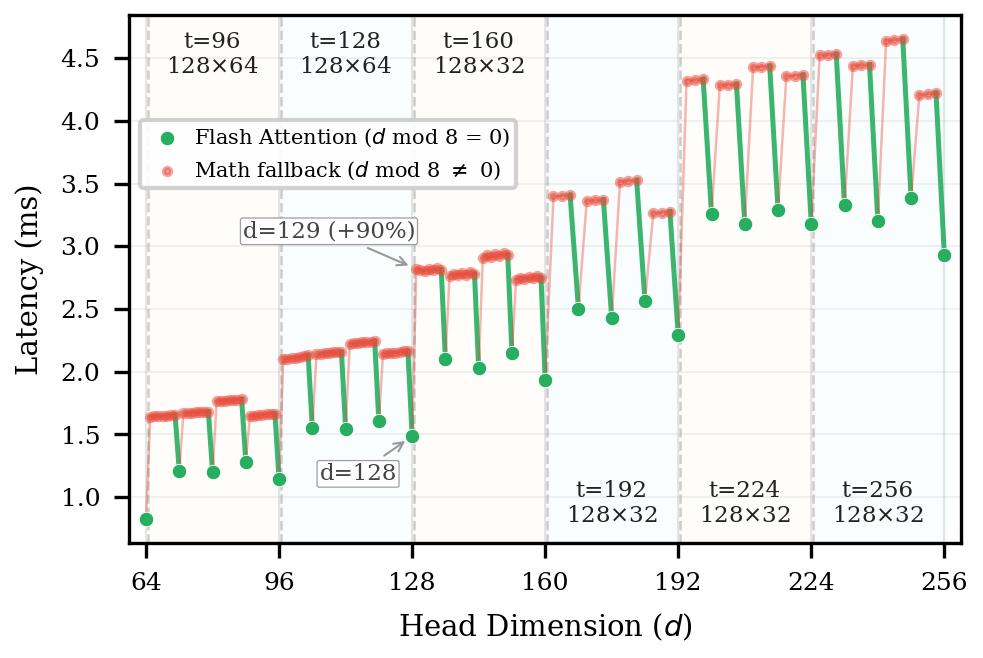
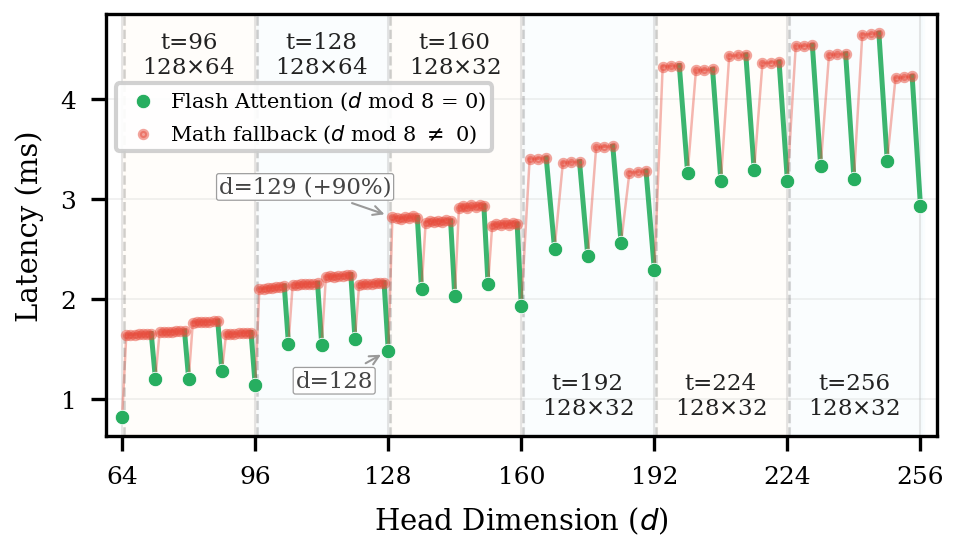
Adjust figure size

diff --git a/scripts/create_paper_figures.py b/scripts/create_paper_figures.py
@@ -208,7 +208,7 @@ def fig2_sdpa_latency():
     dims = np.array(sorted(all_measurements.keys()))
     latencies = np.array([all_measurements[d] for d in dims])
 
-    fig, ax = plt.subplots(figsize=(3.3, 2.2))
+    fig, ax = plt.subplots(figsize=(3.3, 1.85))
 
     # Draw segments between consecutive points, colored by backend
     for i in range(len(dims) - 1):
@@ -256,12 +256,12 @@ def fig2_sdpa_latency():
         mid = (t0 + t1) / 2
         br_bc = tmpl_bxbc.get(t1, '?')
         label = f't={t1}\n{br_bc}'
-        # First 3 tiers at top, rest at bottom (avoid overlap with data)
+        # First 3 tiers at top, rest at bottom (avoid overlap with data/legend)
         if t1 <= 160:
-            ax.text(mid, 0.97, label, transform=ax.get_xaxis_transform(),
+            ax.text(mid, 0.96, label, transform=ax.get_xaxis_transform(),
                     fontsize=5.5, ha='center', va='top', color=_tmpl_clr)
         else:
-            ax.text(mid, 0.03, label, transform=ax.get_xaxis_transform(),
+            ax.text(mid, 0.04, label, transform=ax.get_xaxis_transform(),
                     fontsize=5.5, ha='center', va='bottom', color=_tmpl_clr)
     # d=64 uses template=64 (128×128) — just one point, note in caption
 
@@ -289,10 +289,10 @@ def fig2_sdpa_latency():
     ax.set_xticks(templates)
     ax.legend(fontsize=5, loc='upper left', framealpha=0.9,
               handletextpad=0.3, borderpad=0.3,
-              bbox_to_anchor=(0.0, 0.82))
+              bbox_to_anchor=(0.0, 0.86))
     ax.grid(True, axis='y', alpha=0.2, linewidth=0.4)
 
-    fig.subplots_adjust(left=0.13, right=0.97, top=0.95, bottom=0.15)
+    fig.subplots_adjust(left=0.13, right=0.97, top=0.92, bottom=0.16)
     fig.savefig(OUTPUT_DIR / 'fig2_sdpa_latency.pdf')
     fig.savefig(OUTPUT_DIR / 'fig2_sdpa_latency.png')
     plt.close()
@@ -985,7 +985,7 @@ def fig_prefill_scaling(results_path='results/llmpruner_llama3_v2/results.json')
     x = np.arange(len(seq_lens))
     width = 0.25
 
-    fig, ax = plt.subplots(figsize=(3.3, 2.2))
+    fig, ax = plt.subplots(figsize=(3.3, 1.6))
 
     bars_base = ax.bar(x - width, baseline_vals, width, label='Baseline',
                        color=COLORS['neutral'], alpha=0.7, edgecolor='white', linewidth=0.5)

diff --git a/Latex/figures/fig_gac_framework.tex b/Latex/figures/fig_gac_framework.tex
@@ -21,29 +21,26 @@
   % Input
   \node[iobox, fill=gray!10, draw=gray!50] (input) at (0, 0) {
     \textbf{Input}\\[1pt]
-    {\footnotesize LLM + budget}\\[-1pt]
-    {\footnotesize + compressor}
+    {\footnotesize LLM + Budget}\\[-1pt]
+    {\footnotesize + Compressor}
   };
 
   % Step 1: Operator Analysis
   \node[phase, cblue, text=white] (analysis) at (3.8, 0) {
-    \textbf{Op.\ Analysis}\\[1pt]
-    {\footnotesize SDPA / GEMM}\\[-1pt]
-    {\footnotesize constraints (\S3)}
+    \textbf{Operator}\\[1pt]
+    \textbf{Analysis}
   };
 
   % Step 2: Dimension Sweep
   \node[phase, corange, text=white] (sweep) at (7.6, 0) {
-    \textbf{Dim Sweep}\\[1pt]
-    {\footnotesize Profile near $r_i^*$}\\[-1pt]
-    {\footnotesize $\to$ candidates $C_i$}
+    \textbf{Dimensional}\\[1pt]
+    \textbf{Sweep}
   };
 
   % Step 3: Knapsack DP
   \node[phase, fill=violet!70!blue, text=white] (dp) at (11.4, 0) {
-    \textbf{Knapsack DP}\\[1pt]
-    {\footnotesize $\max \sum f_i(r_i {-} r_i^*)$}\\[-1pt]
-    {\footnotesize s.t.\ budget $B$}
+    \textbf{Dynamic}\\[1pt]
+    \textbf{Programming}
   };
 
   % Output
@@ -57,7 +54,7 @@
   \draw[arrow] (input) -- (analysis);
   \draw[arrow] (analysis) -- (sweep) node[midway, above=2pt, lbl] {constraints};
   \draw[arrow] (sweep) -- (dp) node[midway, above=2pt, lbl] {candidates};
-  \draw[arrow] (dp) -- (output) node[midway, above=2pt, lbl] {ranks $\{r_i\}$};
+  \draw[arrow] (dp) -- (output) node[midway, above=2pt, lbl] {Dimensions};
 
 \end{tikzpicture}
 \caption{\textbf{GAC framework.}
